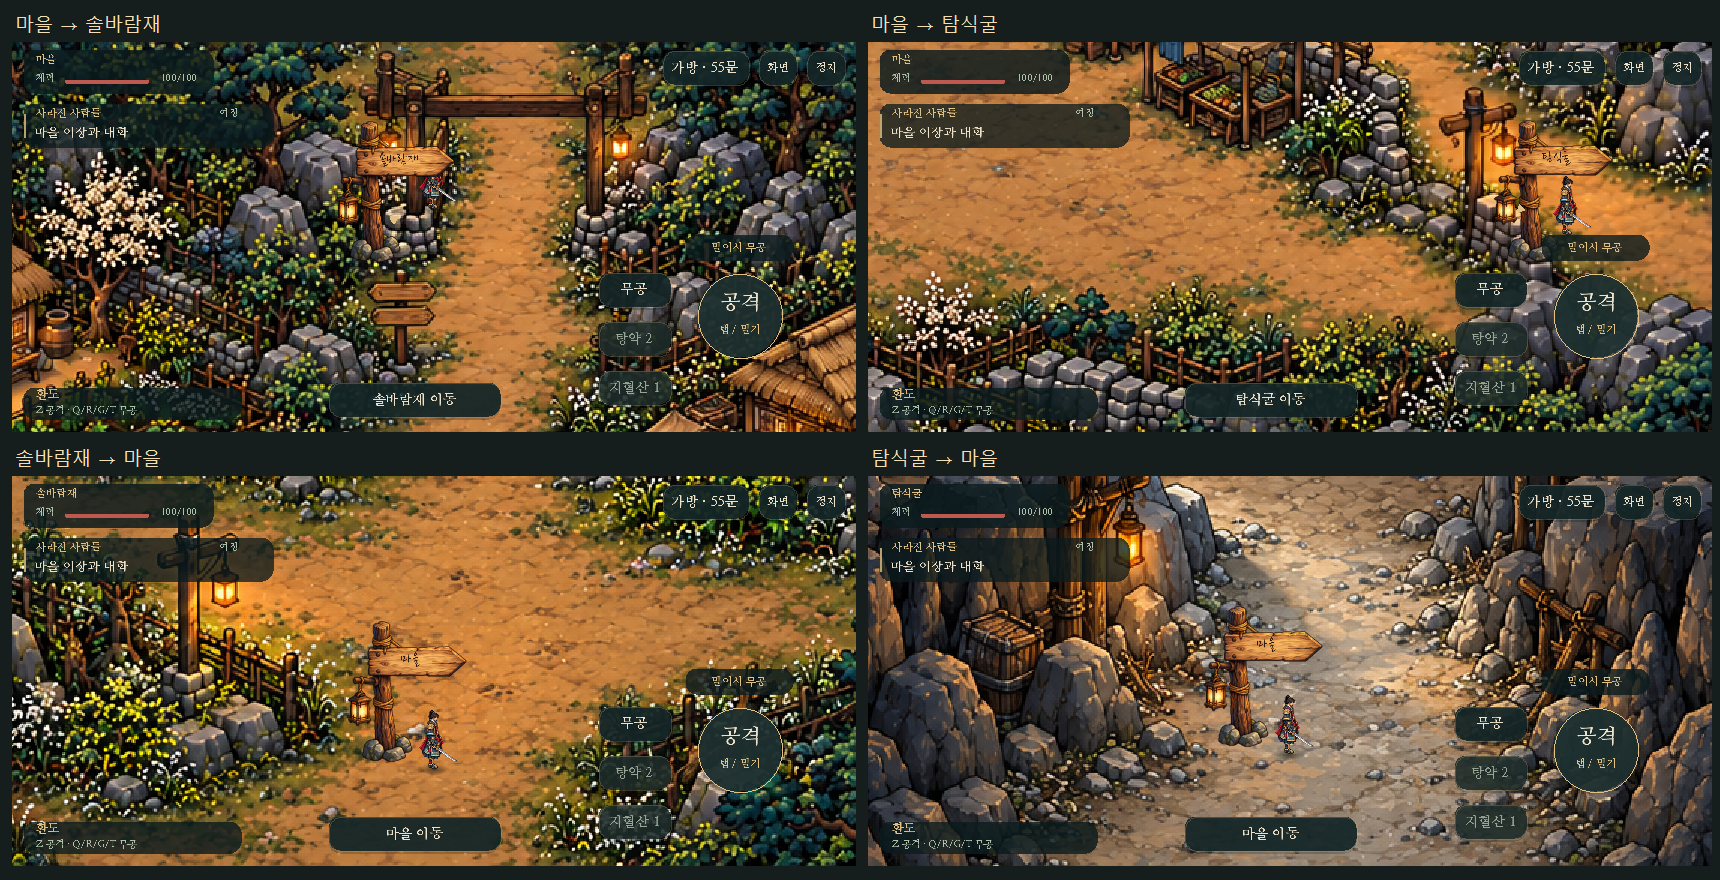
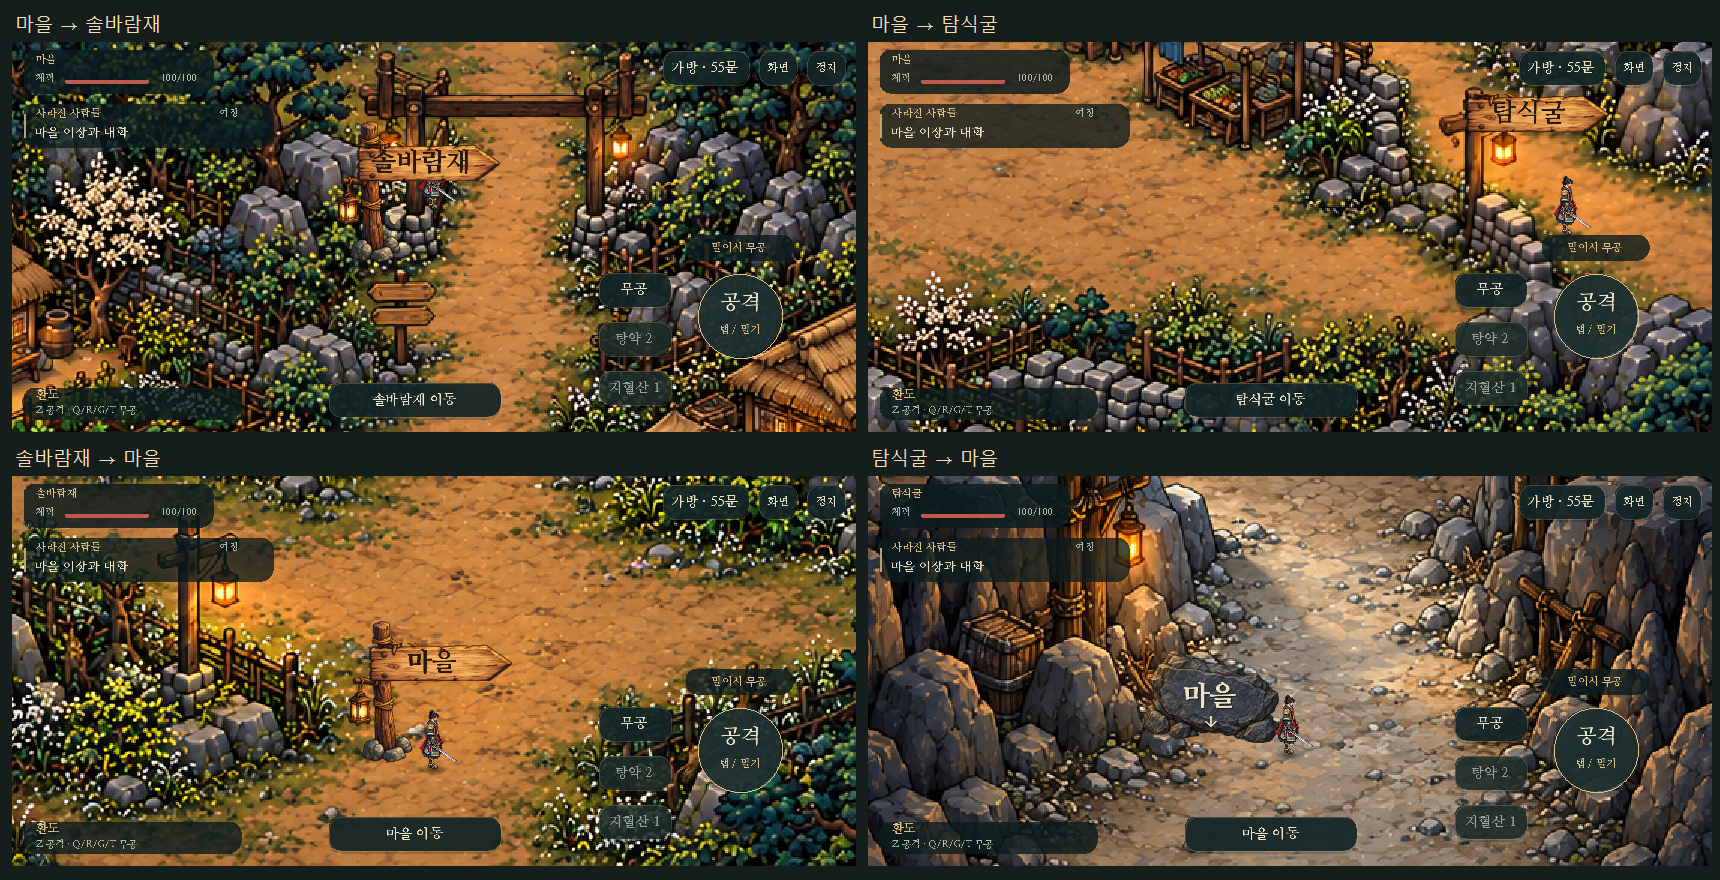
fix: improve wayfinding text and match cave marker to rock scenery

diff --git a/src/draw.c b/src/draw.c
@@ -141,6 +141,12 @@ bool gfx_load(Gfx *g, SDL_Renderer *renderer, const char *root) {
         SDL_Log("Invalid waypost asset %s",path);gfx_free(g);return false;
     }
     SDL_SetTextureScaleMode(g->waypost.texture,SDL_ScaleModeLinear);
+    asset_path(path,sizeof path,root,"maps/cave-waystone.png");
+    g->cave_waystone=load_picture(g,path);
+    if(!g->cave_waystone.texture || g->cave_waystone.w!=256 || g->cave_waystone.h!=178) {
+        SDL_Log("Invalid cave waystone asset %s",path);gfx_free(g);return false;
+    }
+    SDL_SetTextureScaleMode(g->cave_waystone.texture,SDL_ScaleModeLinear);
     g->active_map=&g->map;
     if (g->hero_walk.w % HERO_WALK_COLUMNS ||
         g->hero_walk.h % (HERO_WALK_FRAMES / HERO_WALK_COLUMNS) ||
@@ -211,6 +217,8 @@ bool gfx_load(Gfx *g, SDL_Renderer *renderer, const char *root) {
     return true;
 }
 void gfx_free(Gfx *g) {
+    if(g->cave_waystone.texture) SDL_DestroyTexture(g->cave_waystone.texture);
+    g->cave_waystone=(Picture){0};
     if(g->waypost.texture) SDL_DestroyTexture(g->waypost.texture);
     g->waypost=(Picture){0};
     for (int i = 0; i < MONSTER_ATLAS_COUNT; i++) {
@@ -956,17 +964,53 @@ static void telegraph(Gfx *f, Vec2 p, float range, float angle, float half, floa
 }
 /* Roadside props point into the open lane; the interaction center stays unchanged. */
 static Vec2 waypost_pos(int index) {
-    static const Vec2 offsets[4]={{-74,80},{-50,52},{-62,20},{-62,20}};
+    static const Vec2 offsets[4]={{-74,80},{-105,10.5f},{-62,20},{-95,14}};
     return (Vec2){MAP_EXITS[index].pos.x+offsets[index].x,
                   MAP_EXITS[index].pos.y+offsets[index].y};
 }
+static void waypost_text(Gfx *f,const char *name,SDL_FRect box,float size,SDL_Color ink) {
+    int face=f->face;
+    f->face=0; /* Nanum Myeongjo Bold: clear Korean strokes at phone scale. */
+    gfx_label(f,name,box,size,ink);
+    box.x+=.6f;
+    gfx_label(f,name,box,size,ink);
+    f->face=face;
+}
 static void waypost(Gfx *f,int index,Vec2 camera) {
     Vec2 p=screen_pos(waypost_pos(index),camera);
-    /* Authored 1280px master: post foot (525,1215), board face (395,300)..(1050,465). */
-    SDL_FRect r={p.x-62.3f,p.y-144.3f,152,152};
-    SDL_RenderCopyF(f->renderer,f->waypost.texture,NULL,&r);
-    gfx_heading(f,game_map_name(MAP_EXITS[index].to),
-                (SDL_FRect){r.x+45,r.y+34,83,21},16,(SDL_Color){49,29,16,255});
+    if(index==3) {
+        SDL_FRect rock={p.x-69,p.y-92,138,96};
+        SDL_RenderCopyF(f->renderer,f->cave_waystone.texture,NULL,&rock);
+        SDL_FRect text={rock.x+27,rock.y+32,84,33};
+        waypost_text(f,game_map_name(MAP_EXITS[index].to),
+                     (SDL_FRect){text.x+1,text.y+1,text.w,text.h},28,(SDL_Color){27,28,29,255});
+        waypost_text(f,game_map_name(MAP_EXITS[index].to),text,28,(SDL_Color){238,225,194,255});
+        SDL_Color chalk={224,212,184,255};
+        for(int i=0;i<2;i++) {
+            gfx_line(f,(Vec2){p.x+i,p.y-23},(Vec2){p.x+i,p.y-13},chalk);
+            gfx_line(f,(Vec2){p.x-5+i,p.y-18},(Vec2){p.x+i,p.y-13},chalk);
+            gfx_line(f,(Vec2){p.x+5+i,p.y-18},(Vec2){p.x+i,p.y-13},chalk);
+        }
+        return;
+    }
+    /* Widen the authored board independently; retain the post's proportions. */
+    SDL_Rect board={70,50,170,52};
+    SDL_FRect plate;
+    if(index==1) {
+        /* Mount just the board on the village's existing eastern lamp post. */
+        plate=(SDL_FRect){p.x-15,p.y-123,146,38};
+    } else {
+        SDL_FRect r={p.x-62.3f,p.y-144.3f,152,152};
+        SDL_Rect top={0,0,256,50},bottom={0,102,256,154};
+        SDL_FRect upper={r.x,r.y,r.w,r.h*50/256};
+        SDL_FRect lower={r.x,r.y+r.h*102/256,r.w,r.h*154/256};
+        SDL_RenderCopyF(f->renderer,f->waypost.texture,&top,&upper);
+        SDL_RenderCopyF(f->renderer,f->waypost.texture,&bottom,&lower);
+        plate=(SDL_FRect){r.x+41.5f,r.y+28,146,38};
+    }
+    SDL_RenderCopyF(f->renderer,f->waypost.texture,&board,&plate);
+    waypost_text(f,game_map_name(MAP_EXITS[index].to),
+                 (SDL_FRect){plate.x+5,plate.y+1,122,35},26,(SDL_Color){38,24,13,255});
 }
 void gfx_world(Gfx *f, const Game *g, float w, float h, Vec2 camera, bool has_target,
                Vec2 target) {

diff --git a/src/maps.c b/src/maps.c
@@ -2,7 +2,7 @@
 #define V(x,y) {(x)*1.5f,(y)*1.5f}
 static const WorldShape village_solids[] = {
 {"north waypost base", 4, {V(884,140), V(897,140), V(897,150), V(884,150)}},
-{"east waypost base", 4, {V(1409,665), V(1424,665), V(1424,675), V(1409,675)}},
+{"east lamp sign base", 4, {V(1373,637), V(1387,637), V(1387,649), V(1373,649)}},
 {"central pine grove", 9, {V(740,195), V(810,160), V(858,190), V(862,250), V(884,290), V(880,325), V(830,350), V(750,338), V(710,304)}},
 {"west boundary", 8, {V(0,0), V(80,0), V(80,90), V(40,150), V(45,330), V(25,440), V(30,610), V(0,680)}},
 {"northwest woods", 13, {V(0,0), V(885,0), V(880,65), V(800,100), V(760,165), V(700,145), V(670,80), V(500,65), V(425,135), V(385,75), V(260,30), V(130,60), V(80,100)}},
@@ -56,7 +56,7 @@ static const WorldCover pass_covers[] = {
 {{"central pine", 8, {V(708,365), V(754,347), V(789,385), V(839,423), V(859,450), V(810,461), V(770,426), V(725,421)}},775}
 };
 static const WorldShape cave_solids[] = {
-{"return waypost base", 4, {V(719,938), V(735,938), V(735,948), V(719,948)}},
+{"cave waystone base", 4, {V(686,933), V(730,933), V(730,944), V(686,944)}},
 {"north wall", 18, {V(0,0), V(1536,0), V(1536,200), V(1400,218), V(1310,210), V(1230,240), V(1110,235), V(1000,220), V(950,240), V(870,225), V(770,230), V(690,240), V(590,250), V(470,220), V(355,230), V(245,220), V(180,205), V(0,250)}},
 {"west wall", 15, {V(0,200), V(165,225), V(200,290), V(180,340), V(150,375), V(165,420), V(130,460), V(140,510), V(180,570), V(170,630), V(200,690), V(250,730), V(250,790), V(150,830), V(0,800)}},
 {"east wall", 13, {V(1536,165), V(1435,195), V(1415,275), V(1380,320), V(1400,370), V(1385,420), V(1435,470), V(1400,540), V(1360,575), V(1350,640), V(1370,690), V(1460,740), V(1536,720)}},

diff --git a/src/draw.h b/src/draw.h
@@ -46,7 +46,7 @@ typedef struct {
 typedef struct {
     SDL_Renderer *renderer;
     Picture map, hero, hero_walk, hero_attack, messenger, boss, boar, npcs, prologue[3];
-    Picture locations[3], waypost;
+    Picture locations[3], waypost, cave_waystone;
     Picture *active_map;
     Picture hero_techniques[TECH_COUNT];
     Picture hero_idle_directions, hero_walk_directions[HERO_DIRECTIONS];

diff --git a/docs/MAP_WAYPOINTS.md b/docs/MAP_WAYPOINTS.md
@@ -1,20 +1,29 @@
 # 길목 이정표와 열린 동쪽 출구 · 2026-10-28
 
-마을에서 탐식굴로 나가는 길의 울타리/문짝이 닫힌 것처럼 보여 이동 가능한 길과 그림이 어긋났다. 해당 부분을 열린 흙길로 고치고, 네 왕복 지점의 원형 표식과 떠 있는 이름표를 목제 이정표로 교체했다.
+마을→탐식굴 길의 닫힌 문처럼 보이는 그림을 열린 흙길로 고치고 원형 이동 표식을 물리적인 길안내 소품으로 바꿨다. PR #47 사용자 검토 후 작은 글씨, 동쪽 소품 중복과 동굴의 나무 이정표를 다시 수정했다.
 
-## 구현
+## 최종 동작과 변경 파일
 
-- `assets/maps/village.png`: ImageGen 편집 결과 중 동쪽 출구만 부분 적용했다. 바뀐 35,172픽셀의 경계는 (1331,546)..(1535,718)이며, 허용 사각형 x1330..1535/y545..719 밖의 변경은 0픽셀이다. 원본과 생성 결과는 [원화 기록](../art/maps/waypoints-20261028/README.md), 출처/해시는 [provenance.json](../art/maps/provenance.json).
-- `assets/maps/waypost.png`, `src/draw.c/h`: 나무 간판·새끼줄·등롱·밑돌을 한 RGBA 소품으로 로드하고, 목적지 이름을 간판 면에 붓글씨로 적는다. 길 가장자리에 두고 주인공/NPC/적과 발 위치 순서로 그린다. 기존 이동용 원은 제거했다. 새 텍스처는 로딩 실패 검사와 해제 경로를 포함한다.
-- `src/maps.c`, `art/maps/layout.json`: 이정표 밑돌 네 곳에만 작은 충돌 영역을 추가했다. 출입 판정 중심·거리·도착 좌표와 왕복/전투/의뢰 규칙은 그대로다. 기존 상호작용 버튼 또는 Space를 사용한다.
-- `src/main.c`: `--scene exit0`..`exit3` 검토 장면을 추가했다. 순서는 마을→솔바람재, 마을→탐식굴, 솔바람재→마을, 탐식굴→마을이다.
+- `assets/maps/village.png`: 동쪽 길의 ImageGen 부분 편집. 35,172픽셀 변경, x1330..1535/y545..719 밖 0픽셀 변경. 이번 검토 수정에서 배경 자체는 더 바꾸지 않았다.
+- `src/draw.c/h`, `assets/maps/waypost.png`: 나무 방향판을 기둥 비율과 별도로 넓혀 목적지 글자를 16 붓글씨에서 굵은 명조 26으로 키웠다. 0.6 단위 덧그리기로 획을 보강한다. 텍스트 영역도 83×21에서 122×35로 넓혀 자동 축소를 줄였다.
+- 마을 북쪽/솔바람재 귀환은 나무 이정표, 마을 동쪽은 **배경의 기존 등주에 방향판만 부착**한다. 별도 기둥과 등롱을 추가하지 않아 배경 소품과 중첩하지 않는다.
+- `assets/maps/cave-waystone.png`: 탐식굴의 나무 소품은 제거하고 입구 왼쪽 바위와 맞는 낮은 청회색 표지석으로 바꿨다. 표면에 크기 28의 밝고 굵은 ‘마을’ 글자와 작은 아래 화살표를 표시한다. 새 RGBA 텍스처 로드/실패 검사/해제를 연결했다.
+- `src/maps.c`, `art/maps/layout.json`: 동쪽 기존 등주와 동굴 표지석 위치에 맞춰 두 충돌 footprint를 갱신했다. 출구 판정·거리·도착 좌표·상호작용 버튼/Space·퀘스트·전투 규칙은 그대로다. 발 위치 순서로 그린다.
+- `src/main.c`: `--scene exit0`..`exit3`은 마을→솔바람재, 마을→탐식굴, 솔바람재→마을, 탐식굴→마을을 출력한다.
 
-## 검증
+## 실제 검증
 
-Windows / Zig 0.14.1 / SDL 2.32.10 전체 빌드 성공. `ctest --test-dir build-maps-host --output-on-failure -j2` **12/12 통과**. 새 밑돌을 포함한 전체 지형에서 NPC/흔적/보스 및 네 출구의 실제 프레임 길찾기·왕복·자원 보존, SDL 상호작용/조작, 기존 전투/수련/UI/영웅·몬스터 렌더 검사를 재실행했다.
+사용자 검토 반영 후 Windows / Zig 0.14.1 / SDL 2.32.10 전체 빌드 성공, CTest **12/12 통과 (15.92초)**. 수정된 소품 충돌을 포함한 왕복·의뢰 전체 흐름·자원 보존·실제 SDL 입력과 기존 전투/수련/UI/주인공·몬스터 렌더를 재검사했다. 네 출구를 844×390과 1280×720으로 각각 실행 출력하고 글자 가독성·소품 배치를 검토했다.
 
-네 출구를 각각 844×390 및 1280×720으로 실제 SDL 출력해 확인했다. [844×390 네 출구 비교](waypoint-review.png). 배경 국소 변경 픽셀 검사 및 이정표 투명 알파 검증도 통과했다. 간판은 자연물 소품이며, 마법 포탈/광원 고리/자동 순간이동 효과는 추가하지 않았다.
+- [최종 네 출구 실제 SDL 화면](waypoint-review.png)
+- [동쪽 길·동굴 이전/수정 비교](waypoint-revision-comparison.png)
+- [이번 최종 테스트 로그](waypoint-validation.txt)
+- [원화·준비 기록](../art/maps/waypoints-20261028/README.md), [출처/해시](../art/maps/provenance.json)
 
-로컬 준비 과정에서는 Windows 스크립트 실행 정책 때문에 파일 직접 실행이 거절되어, 정책을 변경하지 않고 같은 내용을 명령 인자로 실행했다. 초기 알파 검사 표본이 투명 여백에 있었으므로 실제 기둥 좌표로 교정해 다시 확인했다. 게임 실패를 숨기거나 테스트를 생략하지 않았다.
+이전 커밋 `66e2340`의 CI #122는 네이티브·일반/단일 HTML 웹 빌드 성공이었다. 이번 변경의 원격 결과는 PR 최신 커밋 CI에서 별도로 확인한다. 실기기 iPhone/Android·실제 브라우저 입력·APK·장시간 성능은 미검증이다.
 
-웹/단일 HTML 빌드는 PR CI 결과로 확인한다. 실제 브라우저 조작·iPhone/Android 기기·APK·장시간 성능은 이번 작업에서 실행하지 않았다. 버전 변경·main 병합·배포 없음. `GAME_BIBLE.md`는 없어 생성하지 않았다. 일반 적 재등장 등 다음 독립 작업은 진행하지 않았다.
+## 복구와 경계
+
+동굴 원화는 예상 1280과 달리 1254×1254였다. 준비 스크립트가 잘못된 크기에서 중단되어 실제 IHDR을 확인하고 정규화 크롭으로 수정했다. 첫 전체 빌드는 실행 시간 제한으로 링크 일부가 남았고 증분 빌드로 완료한 후 전체 테스트를 실행했다. 제품 소스 오류를 감추거나 중간 결과를 성공으로 기록하지 않았다.
+
+GAME_BIBLE.md는 없어 생성하지 않았다. 일반 적 재등장 등 다른 독립 작업·정식 버전 변경·main 병합·배포 없음.

diff --git a/art/maps/waypoints-20261028/README.md b/art/maps/waypoints-20261028/README.md
@@ -5,5 +5,11 @@
 - `village-open-east-generated.png`: 내장 ImageGen으로 기존 마을 원화를 참조해 동쪽 문짝을 지우고 열린 흙길로 편집한 전체 생성 결과. 게임에는 이 전체 이미지를 덮어쓰지 않는다.
 - `waypost-generated.png`: 내장 ImageGen으로 만든 투명 목제 이정표/새끼줄/등롱/밑돌 원본. 글씨는 런타임에서 목적지에 맞춰 그린다.
 - `scripts/prepare_map_waypoints.ps1 -OriginalVillage <approved-original.png>` (Windows/System.Drawing): main `535a13e`의 승인 원본 해시를 확인한 뒤 x1330..1535, y545..719 안의 생성 편집만 16px 경계 혼합으로 적용한다. 이 범위 밖 픽셀은 동일하다. 이정표는 256×256 RGBA로 축소한다. 원본 입력은 출력 파일과 별도 경로여야 한다.
-- 실제 생성 크기: 마을 1536×1024, 이정표 1280×1280. 저장소 입력·출력 해시는 [provenance.json](../provenance.json)에 기록한다.
+- 실제 생성 크기: 마을 1536×1024, 이정표 1254×1254. 저장소 입력·출력 해시는 [provenance.json](../provenance.json)에 기록한다.
 - 국적/시대 고증의 학술 재현물을 주장하지 않는다. 기존 게임 미술에 맞춘 목제 길안내 소품이다.
+
+## 사용자 검토 반영
+
+- 글자가 작고 얇다는 피드백에 따라 런타임 방향판만 넓히고 Nanum Myeongjo Bold 26, 동굴 표지석 28과 0.6 단위 덧그리기로 획을 보강했다. 글자 폭/높이 맞춤에서 16 크기 붓글씨가 작아지던 문제를 수정했다.
+- 마을 동쪽은 배경의 기존 등주에 방향판만 붙인다. 별도 나무 기둥·등롱을 중복 표시하지 않는다.
+- 동굴은 `cave-waystone-generated.png` (실제 1254×1254 RGBA)의 청회색 거친 바위로 교체했다. `scripts/prepare_cave_waystone.ps1`은 1280 기준 정규화 크롭을 실제 해상도에 비례 적용하여 256×178 RGBA를 만든다. 처음 1280×1280으로 가정한 준비 실행은 크기 검사에서 중단됐으며 실제 IHDR을 확인한 뒤 수정했다.

diff --git a/CURRENT_STATE.md b/CURRENT_STATE.md
@@ -8,6 +8,13 @@
 - 정본: `src/*.c`, `src/*.h`; 주요 문서: `README.md`, `docs/CONTROLS.md`, `docs/VALIDATION.md`, `docs/WEB.md`
 
 
+## 2026-10-28 · PR #47 사용자 검토 수정 · 가독성/동굴 표식
+- 글자가 작고 얇고, 마을 동쪽·동굴 나무 이정표가 배경과 어울리지 않는다는 피드백을 반영했다. 같은 PR/브랜치에서 수정하고 병합하지 않았다.
+- `src/draw.c/h`: 방향판 글자 영역 83×21→122×35, 붓글씨 16→굵은 명조 26 및 획 보강. 마을 동쪽은 기존 배경 등주에 방향판만 달아 별도 기둥/등롱 중복을 제거했다.
+- `assets/maps/cave-waystone.png`, 원화·준비 스크립트: 동굴은 청회색 바위 표지석과 크기 28의 밝고 굵은 ‘마을’/아래 화살표로 교체했다. 주변 암벽과 비슷한 색으로 입구 왼쪽에 배치했다. 두 소품의 작은 충돌 위치도 갱신했다.
+- Windows 전체 SDL 빌드·CTest **12/12 통과 (15.92초)**, 네 출구×844×390/1280×720 실제 화면 8장 시각 검토. [상세/원격 결과 구분](docs/MAP_WAYPOINTS.md), [최종 화면](docs/waypoint-review.png), [이전/수정](docs/waypoint-revision-comparison.png).
+- 실제 휴대폰/브라우저 조작과 장시간 성능은 미검증. GAME_BIBLE.md 없음. 기존 출입/조작/전투/퀘스트·배경 PNG는 이번 수정에서 보존했다. 버전 변경·병합·배포 없음. 사용자 검토 후 승인 대기.
+
 ## 2026-10-28 · 열린 탐식굴 길·조선풍 길목 이정표 · PR 검토 대기
 - 기준 main `535a13e`, 독립 브랜치 `fix/joseon-map-exits-20261028`. 탐식굴 쪽 마을 길이 닫힌 문처럼 보이는 문제와 원형 출구 표식의 이질감을 수정했다.
 - `assets/maps/village.png`: ImageGen 편집 중 동쪽 길만 부분 적용. 35,172픽셀 변경, 지정 영역 밖 0픽셀 변경. 나머지 맵/배경·동굴 사과를 보존했다.
